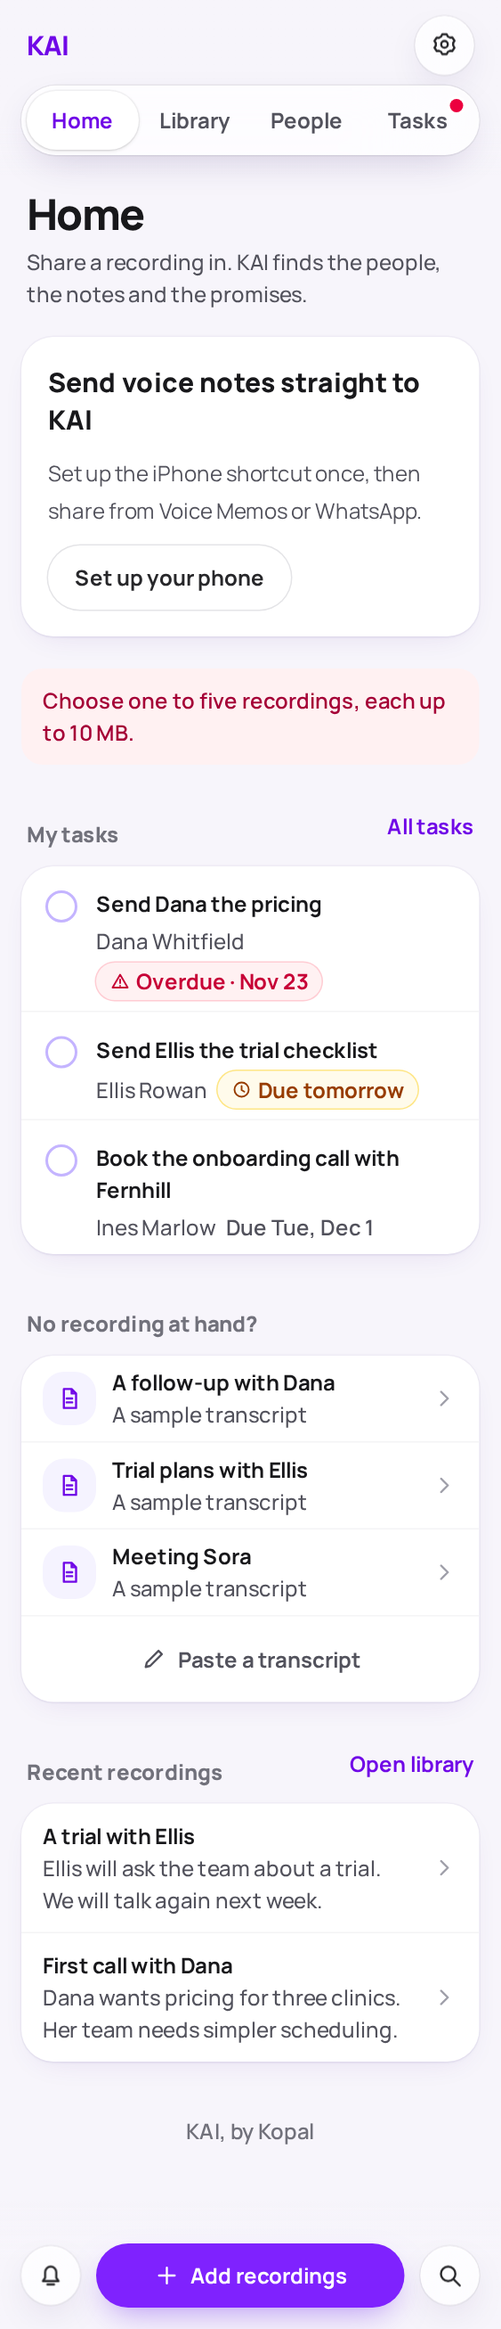
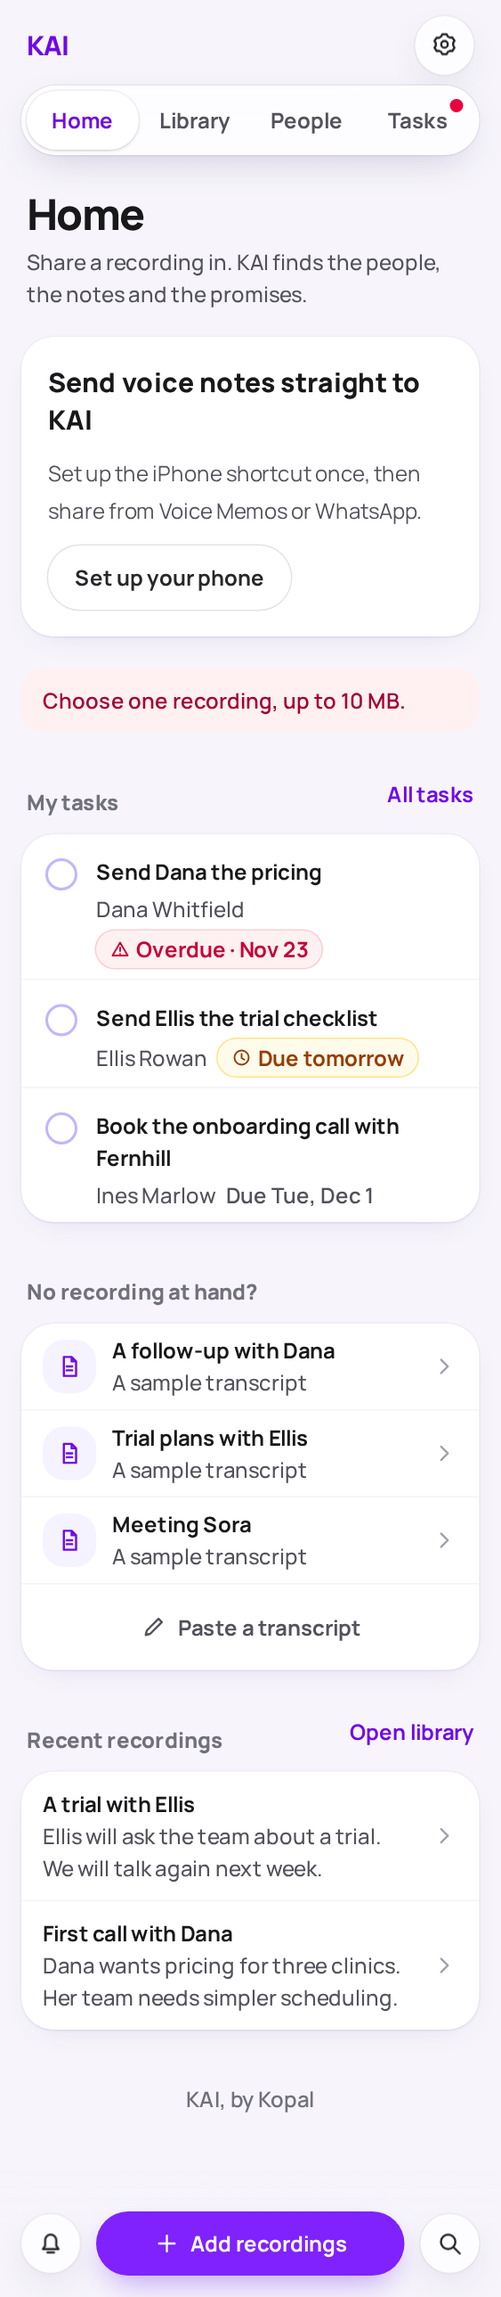
Accept one recording per demo import

diff --git a/src/look/screens/Upload.tsx b/src/look/screens/Upload.tsx
@@ -8,7 +8,7 @@ const sources:{id:UploadSource;label:string;icon:IconName}[]=[{id:'voice-memos',
 const guides:Record<UploadSource,string[]>={
  'voice-memos':['Open Voice Memos from your Home Screen and choose a recording.','Tap More (…), then Share. If Options appears, choose Rendered audio.','Choose Send to KAI. Your browser opens so you can choose the recording type.'],
  whatsapp:['Hold the voice note in WhatsApp, then tap Forward.','Tap Share, then Send to KAI.','Your browser opens so you can choose who sent it before KAI reads.'],
- files:['Save a recording to Files from the app’s Share menu.','Choose the person below, then choose up to five audio files.','KAI checks their length against your remaining time before starting.']
+ files:['Save a recording to Files from the app’s Share menu.','Choose the recording type below, then choose one audio file.','KAI checks its length against your remaining time before starting.']
 }
 const timeLeft=(seconds:number)=>`${Math.floor(seconds/60)} min ${seconds%60} sec`
 
@@ -39,7 +39,7 @@ export function Upload({ people, incoming, readOnly, presetPerson, busy, error, 
   const [name,setName]=useState(''),[company,setCompany]=useState(''),[role,setRole]=useState('')
   const person:PersonChoice=recordingType!=='voice' ? {recording_type:recordingType,person_id:null}:selected==='new' ? {recording_type:recordingType,new_person:{id,name:name.trim(),company:company.trim(),role:role.trim()}} : {recording_type:recordingType,person_id:selected || null}
   const valid=Boolean(recordingType) && (recordingType!=='voice' || (selected==='new' ? Boolean(name.trim()):Boolean(selected)))
-  const dock=readOnly ? <WhatIsKai/> : loadError ? <Button variant="primary" wide onClick={onRetry}>Try again</Button> : !people ? <Button variant="primary" wide disabled>Opening…</Button> : exhausted ? <Button variant="primary" wide href={xPostUrl || '/home'}>{xPostUrl ? 'Show KAI some love':'Back to Home'}</Button> : incoming ? <Button variant="primary" wide disabled={busy || !valid} onClick={()=>onStart(person)}>{busy ? 'Starting…' : recordingType==='multiple' ? 'Transcribe recording':'Let KAI read'}</Button> : source!=='files' && !shortcutReady ? <Button variant="primary" wide href={'/connect?next='+source}>Set up shortcut</Button> : source==='whatsapp' ? <Button variant="primary" wide href="whatsapp://app">Open WhatsApp</Button> : source==='voice-memos' ? <Button variant="primary" wide onClick={()=>{setSource('files');setGuide(null)}}>Choose saved audio</Button> : <RecordingPicker label="Choose audio files" busy={busy} disabled={!valid} onFiles={files=>onFiles(files,person)}/>
+  const dock=readOnly ? <WhatIsKai/> : loadError ? <Button variant="primary" wide onClick={onRetry}>Try again</Button> : !people ? <Button variant="primary" wide disabled>Opening…</Button> : exhausted ? <Button variant="primary" wide href={xPostUrl || '/home'}>{xPostUrl ? 'Show KAI some love':'Back to Home'}</Button> : incoming ? <Button variant="primary" wide disabled={busy || !valid} onClick={()=>onStart(person)}>{busy ? 'Starting…' : recordingType==='multiple' ? 'Transcribe recording':'Let KAI read'}</Button> : source!=='files' && !shortcutReady ? <Button variant="primary" wide href={'/connect?next='+source}>Set up shortcut</Button> : source==='whatsapp' ? <Button variant="primary" wide href="whatsapp://app">Open WhatsApp</Button> : source==='voice-memos' ? <Button variant="primary" wide onClick={()=>{setSource('files');setGuide(null)}}>Choose saved audio</Button> : <RecordingPicker label="Choose audio file" busy={busy} disabled={!valid} onFiles={files=>onFiles(files,person)}/>
   return <PushedPage back="/home" backLabel="Back to Home" readOnly={readOnly} dock={dock}>
     <header className="px-1"><h1 className="text-[30px]/9 font-extrabold tracking-tight">Add recordings</h1><p className="mt-2 text-base/7 font-medium text-zinc-600">{incoming ? 'Tell KAI whose words these are.':'Where is your recording?'}</p></header>
     {readOnly ? <Card className="p-5 text-base/7 font-medium text-zinc-600">Open your own copy to add recordings.</Card> : loadError ? <Notice tone="error">{loadError}</Notice> : !people ? <Notice>Opening your upload…</Notice> : exhausted ? <Card className="space-y-3 p-5"><h2 className="text-xl font-extrabold">Your trial time is complete</h2><p className="text-base/7 text-zinc-600">You’ve used your recording time. Your people, tasks and past recordings are still here.</p></Card> : <>
@@ -67,7 +67,7 @@ export function Upload({ people, incoming, readOnly, presetPerson, busy, error, 
         <p className="text-base/7 font-medium text-zinc-600">This person is the speaker, not just someone mentioned. KAI will distinguish their tasks from yours.</p>
       </Card>}
       {!incoming && remainingSeconds!=null && <p className="px-1 text-base/7 font-bold text-violet-700">{timeLeft(remainingSeconds)} of recording time left</p>}
-      {!incoming && <p className="px-1 text-base/7 font-medium text-zinc-600">Up to five recordings at once, each up to 10 MB and under 30 minutes. {source==='files' ? 'The recording type applies to all selected files.':'Choose the recording type after sharing.'} {remainingSeconds!=null && 'Together, the files must fit your remaining time.'}</p>}
+      {!incoming && <p className="px-1 text-base/7 font-medium text-zinc-600">One recording at a time, up to 10 MB and under 30 minutes. {source!=='files' && 'Choose the recording type after sharing.'} {remainingSeconds!=null && 'The recording must fit your remaining time.'}</p>}
       {error && <Notice tone="error">{error}</Notice>}
     </>}
     {!readOnly && <p className="px-1 text-base/7 text-zinc-500">{RECORDING_NOTICE}</p>}

diff --git a/tests/audio.test.ts b/tests/audio.test.ts
@@ -18,10 +18,10 @@ function setup(durable=false) {
 }
 const reader:Reader=async(_input,call)=>{call('describe_recording',{title:'A test recording',summary:'KAI kept the invented words.\nThere are no new promises.'});};
 const dates=[Date.UTC(2026,10,24),Date.UTC(2026,10,22),Date.UTC(2026,10,23)];
-test('three files are read oldest first and audio is deleted afterwards',async()=> {
+test('separate imports are read oldest first and audio is deleted afterwards',async()=> {
   const {db,directory}=setup();const order:string[]=[];
   try {
-    const ids=await addAudio(db,'judge-a',dates.map(date=>({name:'memo.wav',buffer:testTone(),date})),directory);
+    const ids:string[]=[];for(const date of dates)ids.push(...await addAudio(db,'judge-a',[{name:'memo.wav',buffer:testTone(),date}],directory));
     const paths=(db.prepare('SELECT audio_path FROM conversations WHERE audio_path IS NOT NULL').all() as {audio_path:string}[]).map(r=>r.audio_path);
     const worker=queueWorker(db,async(input,call)=>{order.push(input.happened_on);await reader(input,call);},fakeTranscriber);
     await worker.kick();
@@ -30,11 +30,12 @@ test('three files are read oldest first and audio is deleted afterwards',async()
     await worker.stop();
   } finally {db.close();rmSync(directory,{recursive:true,force:true});}
 });
-test('queue stopped halfway finishes after reopening its persistent database',async()=> {
+test('an existing batch stopped halfway finishes after reopening its persistent database',async()=> {
   const {db,directory,file}=setup(true);let resumed:ReturnType<typeof openDatabase>|undefined;
   let started!:()=>void;const secondStarted=new Promise<void>(resolve=>started=resolve);let calls=0;
   try {
-    await addAudio(db,'judge-a',dates.map(date=>({name:'memo.wav',buffer:testTone(),date})),directory);
+    for(const date of dates)await addAudio(db,'judge-a',[{name:'memo.wav',buffer:testTone(),date}],directory);
+    db.prepare("UPDATE conversations SET batch_id='legacy-batch' WHERE workspace_id='judge-a'").run();
     const worker=queueWorker(db,reader,async(_audio,signal)=> {
       if(++calls===1) return 'First invented memo.';
       started();await new Promise<void>((_resolve,reject)=>signal.addEventListener('abort',()=>reject(new Error('Stopped')),{once:true}));return '';
@@ -59,14 +60,14 @@ test('real generated m4a and opus files are accepted; 30-minute audio is refused
     await assert.rejects(()=>addAudio(db,'judge-a',[{name:'long.wav',buffer:long,date:dates[0]}],directory),/shorter than 30 minutes/);
   } finally {db.close();rmSync(directory,{recursive:true,force:true});}
 });
-test('11 MB and sixth file are refused by HTTP before anything is queued',async()=> {
+test('11 MB and second file are refused by HTTP before anything is queued',async()=> {
   const {db,directory}=setup();const secret=randomBytes(32).toString('hex');
   const app=createApp(db,{judgeSecret:secret,audioDirectory:directory});const server=app.listen(18522,'127.0.0.1');
   await new Promise<void>(resolve=>server.once('listening',resolve));const base='http://127.0.0.1:18522';
   try {
     const auth=await fetch(base+'/api/access/start',{method:'POST',headers:{'Content-Type':'application/json'},body:JSON.stringify({secret})});
     const cookie=auth.headers.get('set-cookie')!.split(';')[0];
-    for(const buffers of [[Buffer.alloc(11_000_000)],Array.from({length:6},()=>testTone())]) {
+    for(const buffers of [[Buffer.alloc(11_000_000)],Array.from({length:2},()=>testTone())]) {
       const form=new FormData();buffers.forEach(b=>form.append('recordings',new Blob([new Uint8Array(b)]),'memo.wav'));form.append('dates',JSON.stringify(buffers.map(()=>dates[0])));
       const response=await fetch(base+'/api/recordings',{method:'POST',headers:{Cookie:cookie},body:form});assert.equal(response.status,400);
     }

diff --git a/src/look/screens/Terms.tsx b/src/look/screens/Terms.tsx
@@ -6,7 +6,7 @@ export function Terms({fromHome=false}:{fromHome?:boolean}) {
  return <PushedPage back={back} backLabel={label} dock={<Button variant="primary" href={back}>{label}</Button>}>
   <header className="px-1"><h1 className="text-[32px]/10 font-extrabold">Demo terms and privacy</h1><p className="mt-2 text-base/7 text-zinc-600">KAI, by Kopal · 26 November 2026</p></header>
   <Card className="space-y-5 p-5 text-base/7 text-zinc-700">
-   <section><h2 className="text-lg font-extrabold text-zinc-900">A temporary, free demo</h2><p>One verified email and public network address can claim 30 minutes of recording time, for the first 100 people. People sharing a network share an allowance. There is no payment or automatic renewal. Each file is under 30 minutes and at most 10 MB, with up to five files per upload and ten recordings a day. Shared daily limits can mean trying again tomorrow.</p></section>
+   <section><h2 className="text-lg font-extrabold text-zinc-900">A temporary, free demo</h2><p>One verified email and public network address can claim 30 minutes of recording time, for the first 100 people. People sharing a network share an allowance. There is no payment or automatic renewal. Each file is under 30 minutes and at most 10 MB, with one file per upload and ten recordings a day. Shared daily limits can mean trying again tomorrow.</p></section>
    <section><h2 className="text-lg font-extrabold text-zinc-900">What you share</h2><p>Only add recordings you have permission to share and process, including permission from other speakers where needed. Use made-up examples to try the demo. KAI can make mistakes: review its suggestions before accepting or relying on them. KAI does not send messages to your contacts or carry out tasks for you.</p></section>
    <section><h2 className="text-lg font-extrabold text-zinc-900">Your recordings and notebook</h2><p>{RECORDING_NOTICE}</p><p className="mt-2">KAI runs on Fly.io. Audio is deleted from KAI after transcription; the words, summaries and accepted changes stay in your private notebook until 8 December 2026. Providers process the material sent to them under their own policies; this deletion date describes KAI’s copy. Keep your original recordings.</p><p className="mt-2">Access is kept in this browser with a cookie. Verifying your email again does not recover access or refill your allowance. Keep your private sharing and assistant addresses private: they grant access to their respective features.</p></section>
    <section><h2 className="text-lg font-extrabold text-zinc-900">Your email and trial records</h2><p>Resend delivers verification codes and recording-ready, retry or over-quota upload emails. Ready emails include the recording title, suggestion counts and a review link. Your email is linked to your trial and waitlist signup. Kopal may write once if KAI becomes a product; the waitlist can be retained for that message unless you ask to leave it. Your address is not sent to the recording providers or exposed to connected assistants.</p><p className="mt-2">KAI keeps a protected fingerprint of your public network address to prevent repeat trials, plus the version and time of your agreement. Existing trial and daily limits remain in force.</p></section>

diff --git a/tests/single-import.test.ts b/tests/single-import.test.ts
@@ -1,0 +1,33 @@
+import {test} from 'node:test';
+import assert from 'node:assert/strict';
+import {mkdtempSync,readdirSync,rmSync} from 'node:fs';
+import {openDatabase,seed} from '../src/server/db';
+import {createJudge} from '../src/server/access';
+import {createApp} from '../src/server/app';
+import {testTone} from '../src/server/gateway';
+
+test('both import routes reject two files without writes, quota, provider or mail calls; one still works',async()=>{
+ const db=openDatabase();seed(db);const j=createJudge(db,false),dir=mkdtempSync('.data/single-import-');let listens=0,mails=0;
+ db.prepare('UPDATE workspaces SET trial_seconds=1800,trial_verified=1 WHERE id=?').run(j.id);
+ db.prepare('INSERT INTO waitlist(email,workspace_id,created_at,verified_at) VALUES (?,?,?,?)').run('invented@example.invalid',j.id,'2026-11-26','2026-11-26');
+ const app=createApp(db,{secureCookies:false,audioDirectory:dir,transcriber:async()=>{listens++;return 'Invented words.'},reader:async(_input,call)=>{call('describe_recording',{title:'Invented memo',summary:'A made-up update.\nNo promises.'})},sendReady:async()=>{mails++},sendQuota:async()=>{mails++}});
+ const server=app.listen(18635,'127.0.0.1');await new Promise<void>(r=>server.once('listening',r));const base='http://127.0.0.1:18635',headers={Cookie:'kai_session='+j.cookie};
+ const address=(db.prepare('SELECT upload_token FROM workspaces WHERE id=?').get(j.id) as {upload_token:string}).upload_token;
+ const counters=()=>db.prepare('SELECT trial_seconds,recordings_today,readings_today FROM workspaces WHERE id=?').get(j.id);
+ function form(count:number){const f=new FormData();for(let i=0;i<count;i++)f.append('recordings',new Blob([testTone()]),'invented.wav');f.append('dates',JSON.stringify(Array(count).fill(Date.now())));f.append('person',JSON.stringify({recording_type:'memo'}));return f}
+ try{
+  const before=counters();
+  for(const route of ['/api/recordings','/in/'+address]){
+   const r=await fetch(base+route,{method:'POST',headers,body:form(2)});assert.equal(r.status,400);assert.match((await r.json()).error,/one recording/i);
+  }
+  await app.locals.queue.kick();assert.deepEqual(counters(),before);assert.deepEqual(readdirSync(dir),[]);
+  for(const table of ['conversations','people','recording_emails','quota_emails'])assert.equal((db.prepare(`SELECT count(*) n FROM ${table} WHERE workspace_id=?`).get(j.id) as {n:number}).n,0);
+  assert.equal(listens,0);assert.equal(mails,0);
+  for(const route of ['/api/recordings','/in/'+address]){
+   const r=await fetch(base+route,{method:'POST',headers,body:form(1)});assert.equal(r.status,202);const {ids}=await r.json();assert.equal(ids.length,1);
+   if(route.startsWith('/in/'))assert.equal((await fetch(base+'/api/uploads/'+ids[0]+'/start',{method:'POST',headers:{...headers,'Content-Type':'application/json'},body:JSON.stringify({recording_type:'memo'})})).status,200);
+   await app.locals.queue.kick();
+  }
+  assert.equal(listens,2);assert.equal((db.prepare("SELECT count(*) n FROM conversations WHERE workspace_id=? AND status='ready'").get(j.id) as {n:number}).n,2);
+ }finally{await app.locals.queue.stop();await new Promise<void>(r=>server.close(()=>r()));db.close();rmSync(dir,{recursive:true,force:true})}
+});

diff --git a/tests/phone/upload-person.spec.ts b/tests/phone/upload-person.spec.ts
@@ -12,7 +12,7 @@ test('choose a new person before upload; their page keeps the recording after re
   await login(page,kai.secret);await page.getByRole('link',{name:'Add recordings',exact:true}).click();
   await page.getByRole('button',{name:/^Someone else/}).click();await page.getByLabel('Who is speaking?').selectOption('new');await assertPhone(page);
   await page.getByLabel('Name',{exact:true}).fill('Avery Fern');await page.getByLabel('Company (optional)').fill('Juniper Dental');await photograph(page,'upload-new-person');
-  await page.getByLabel('Add recordings: choose up to five audio files').setInputFiles({name:'invented.wav',mimeType:'audio/wav',buffer:testTone()});
+  await page.getByLabel('Add recording: choose one audio file').setInputFiles({name:'invented.wav',mimeType:'audio/wav',buffer:testTone()});
   await expect(page.getByRole('button',{name:/^Accept all/})).toBeEnabled();await page.getByRole('link',{name:'Avery Fern',exact:true}).click();
   await expect(page.getByRole('heading',{name:'Avery Fern',exact:true})).toBeVisible();
   await page.reload();await expect(page.getByRole('link',{name:/A follow-up with Dana/})).toBeVisible();await assertPhone(page);
@@ -43,7 +43,7 @@ test('Home puts recording progress first, then my tasks, excluding promises owed
   await page.goto('/home');await expect(page.getByText('Reading Dana’s page',{exact:true})).toBeVisible();
   const tasks=page.getByRole('region',{name:'My tasks',exact:true});await expect(tasks).toContainText('Send Dana the pricing');await expect(tasks).not.toContainText('Send the trial dates');
   const progress=await page.getByText('Reading Dana’s page',{exact:true}).boundingBox(),todos=await tasks.boundingBox(),samples=await page.getByText('No recording at hand?',{exact:true}).boundingBox();
-  expect(progress!.y).toBeLessThan(todos!.y);expect(todos!.y).toBeLessThan(samples!.y);await expect(page.getByText('Up to five recordings at once',{exact:true})).toHaveCount(0);await assertPhone(page);
+  expect(progress!.y).toBeLessThan(todos!.y);expect(todos!.y).toBeLessThan(samples!.y);await expect(page.getByText('One recording at a time',{exact:true})).toHaveCount(0);await assertPhone(page);
   await page.getByRole('checkbox',{name:'Mark Send Dana the pricing done'}).click();await expect(tasks).not.toContainText('Send Dana the pricing');
   await page.reload();await expect(page.getByRole('region',{name:'My tasks'})).not.toContainText('Send Dana the pricing');
 });

diff --git a/tests/trial.test.ts b/tests/trial.test.ts
@@ -14,9 +14,9 @@ test('duration reservation is atomic across uploads, survives restart, and prese
  const file={name:'tone.wav',buffer:testTone(),date:Date.now()};
  const remaining=()=>(db.prepare('SELECT trial_seconds FROM workspaces WHERE id=?').get(judge.id) as {trial_seconds:number}).trial_seconds;
  try {
-  db.prepare('UPDATE workspaces SET trial_verified=1,trial_seconds=5 WHERE id=?').run(judge.id);
-  await assert.rejects(()=>addAudio(db,judge.id,[file,file,file],dir),/remaining recording time/);assert.equal(remaining(),5);
-  const results=await Promise.allSettled([addAudio(db,judge.id,[file,file],dir),addAudio(db,judge.id,[file,file],dir,'shared',{awaitingPerson:true})]);
+  db.prepare('UPDATE workspaces SET trial_verified=1,trial_seconds=3 WHERE id=?').run(judge.id);
+  await assert.rejects(()=>addAudio(db,judge.id,[file,file],dir),/one recording/);assert.equal(remaining(),3);
+  const results=await Promise.allSettled([addAudio(db,judge.id,[file],dir),addAudio(db,judge.id,[file],dir,'shared',{awaitingPerson:true})]);
   assert.equal(results.filter(r=>r.status==='fulfilled').length,1);assert.equal(remaining(),1);
   const image=db.serialize();db.close();db=openDatabase(image);assert.equal(remaining(),1);
   await assert.rejects(()=>addAudio(db,judge.id,[file],dir,'shared',{awaitingPerson:true}),/remaining recording time/);
@@ -64,7 +64,7 @@ test('forged audio headers cannot request more provider time than reserved; over
   worker=queueWorker(db,reader,assemblyTranscriber);await worker.kick();await worker.stop();
   assert.equal(requested,1);assert.equal((db.prepare('SELECT status FROM conversations WHERE id=?').get(id) as {status:string}).status,'ready');
   providerDuration=2;
-  await addAudio(db,judge.id,[{name:'forged.wav',buffer:forged,date:Date.now()},{name:'forged.wav',buffer:forged,date:Date.now()}],dir);
+  for(let i=0;i<2;i++)await addAudio(db,judge.id,[{name:'forged.wav',buffer:forged,date:Date.now()}],dir);
   worker=queueWorker(db,reader,assemblyTranscriber);await worker.kick();await worker.stop();
   assert.equal(requested,2);assert.throws(()=>reserveReading(db,judge.id),/trial has ended/);
   const reopened=openDatabase(db.serialize());assert.throws(()=>reserveReading(reopened,judge.id),/trial has ended/);reopened.close();

diff --git a/tests/upload-person.test.ts b/tests/upload-person.test.ts
@@ -48,9 +48,9 @@ test('a shared recording waits for its owner, survives reopening, and starts onc
   }finally{await app.locals.queue.stop();await new Promise<void>(r=>server.close(()=>r()));db.close();rmSync(dir,{recursive:true,force:true});}
 });
 
-test('file uploads link the whole batch atomically; foreign people and invalid choices leave no files, rows or spent allowance',async()=> {
+test('single imports link a person atomically; foreign people and invalid choices leave no files, rows or spent allowance',async()=> {
   mkdirSync('.data',{recursive:true});const dir=mkdtempSync('.data/person-batch-');const db=openDatabase();seed(db);const a=createJudge(db),b=createJudge(db);
-  const files=[0,1,2].map(i=>({name:'invented.wav',buffer:testTone(),date:Date.now()-5000+i}));
+  const files=[0].map(i=>({name:'invented.wav',buffer:testTone(),date:Date.now()-5000+i}));
   const before=db.prepare('SELECT recordings_today,readings_today FROM workspaces WHERE id=?').get(a.id);
   try {
     await assert.rejects(addAudio(db,a.id,files,dir,'recording',{person:{person_id:b.id+':dana'}}));
@@ -58,9 +58,9 @@ test('file uploads link the whole batch atomically; foreign people and invalid c
     assert.equal((db.prepare("SELECT count(*) AS n FROM conversations WHERE source='recording'").get() as {n:number}).n,0);
     const person={id:randomUUID(),name:'Linden Ash',company:'',role:''};
     const ids=await addAudio(db,a.id,files,dir,'recording',{person:{new_person:person}});
-    assert.equal(ids.length,3);assert.equal((db.prepare('SELECT count(*) AS n FROM people WHERE id=?').get(person.id) as {n:number}).n,1);
+    assert.equal(ids.length,1);assert.equal((db.prepare('SELECT count(*) AS n FROM people WHERE id=?').get(person.id) as {n:number}).n,1);
     for(const id of ids)assert.equal((db.prepare('SELECT person_id FROM conversations WHERE id=?').get(id) as {person_id:string}).person_id,person.id);
-    assert.equal((personPage(db,a.id,person.id)!.conversations as unknown[]).length,3);
+    assert.equal((personPage(db,a.id,person.id)!.conversations as unknown[]).length,1);
     assert.equal((db.prepare('SELECT count(*) AS n FROM suggestions WHERE workspace_id=?').get(a.id) as {n:number}).n,0);
   }finally{db.close();rmSync(dir,{recursive:true,force:true});}
 });

diff --git a/tests/phone/upload-sources.spec.ts b/tests/phone/upload-sources.spec.ts
@@ -22,7 +22,7 @@ test('three audio sources show guidance and return from shortcut setup to the ch
  await page.getByRole('button',{name:'Choose saved audio',exact:true}).click();
  await expect(page.getByRole('heading',{name:'What kind of recording?'})).toBeVisible();await page.getByRole('button',{name:/^My memo/}).click();
  await page.getByRole('button',{name:'Files',exact:true}).click();
- const picker=page.getByLabel('Add recordings: choose up to five audio files');await expect(picker).toHaveAttribute('accept','.m4a,.opus,.ogg,.mp3,.wav');
+ const picker=page.getByLabel('Add recording: choose one audio file');await expect(picker).not.toHaveAttribute('multiple');await expect(picker).toHaveAttribute('accept','.m4a,.opus,.ogg,.mp3,.wav');
  await picker.setInputFiles({name:'invented.txt',mimeType:'text/plain',buffer:Buffer.from('Invented words.')});
  await expect(page.getByText('Choose an audio file: M4A, OPUS, OGG, MP3 or WAV.',{exact:true})).toBeVisible();await expect(page).toHaveURL(/upload\/new/);
  await assertPhone(page);
@@ -35,7 +35,7 @@ test('remaining time refuses an oversized duration, hides a missing post, and le
  kai.db.prepare('UPDATE workspaces SET trial_verified=1,trial_seconds=1 WHERE id=?').run(id);
  await page.goto('/upload/new');await expect(page.getByText('0 min 1 sec of recording time left',{exact:true})).toBeVisible();
  await page.getByRole('button',{name:/^My memo/}).click();
- await page.getByLabel('Add recordings: choose up to five audio files').setInputFiles({name:'invented.wav',mimeType:'audio/wav',buffer:testTone()});
+ await page.getByLabel('Add recording: choose one audio file').setInputFiles({name:'invented.wav',mimeType:'audio/wav',buffer:testTone()});
  await expect(page.getByText(/remaining recording time/)).toBeVisible();
  expect((kai.db.prepare('SELECT trial_seconds FROM workspaces WHERE id=?').get(id) as {trial_seconds:number}).trial_seconds).toBe(1);
  kai.db.prepare('UPDATE workspaces SET trial_seconds=2 WHERE id=?').run(id);

diff --git a/src/server/app.ts b/src/server/app.ts
@@ -27,7 +27,7 @@ export function createApp(db: KaiDatabase, options: AppOptions = {}) {
   const queue=queueWorker(db,options.reader ?? fakeReader,options.transcriber ?? fakeTranscriber,()=>{void mail.kick();});
   const work=()=>{void quotaMail.kick();void mail.kick();return queue.kick();};
   app.locals.queue={kick:work,stop:async()=>{await queue.stop();await mail.stop();await quotaMail.stop();}};void work();
-  const upload=multer({storage:multer.memoryStorage(),limits:{fileSize:maxAudioBytes,files:5,fields:2,fieldSize:2048,parts:7}}).array('recordings',5);
+  const upload=multer({storage:multer.memoryStorage(),limits:{fileSize:maxAudioBytes,files:1,fields:2,fieldSize:2048,parts:3}}).array('recordings',1);
   app.disable('x-powered-by');
   app.use((_req,res,next) => {res.set({'Referrer-Policy':'no-referrer','Cache-Control':'no-store','X-Content-Type-Options':'nosniff'});next();});
   mountSharing(app,db,upload,options.audioDirectory ?? '.data/audio',work);
@@ -176,7 +176,7 @@ export function createApp(db: KaiDatabase, options: AppOptions = {}) {
   app.use(express.static(path.resolve('dist')));
   app.get(['/', '/terms', '/try', '/home', '/search', '/library', '/notifications', '/upload', '/upload/:id', '/people', '/todos', '/todos/:id', '/connect', '/recordings/:id', '/people/:id', '/operator'], (_req,res) => res.sendFile('index.html', {root:path.resolve('dist')}));
   app.use((err: unknown,_req:express.Request,res:express.Response,_next:express.NextFunction) => {
-    if(err instanceof multer.MulterError) {res.status(400).json({error:'Choose up to five recordings, each up to 10 MB.'});return;}
+    if(err instanceof multer.MulterError) {res.status(400).json({error:'Choose one recording, up to 10 MB.'});return;}
     res.status(err && typeof err==='object' && 'status' in err && err.status===413 ? 413:err instanceof SyntaxError ? 400 : 500).json({error:'This request could not be completed.'});
   });
   return app;

diff --git a/tests/sharing.test.ts b/tests/sharing.test.ts
@@ -55,13 +55,13 @@ test('sharing enters only its address owner’s queue; wrong addresses are 404 a
   }finally{await close();}
 });
 
-test('shared uploads retain file, duration, batch and daily limits without queuing rejected input',async()=> {
+test('shared uploads retain file, duration, single-file and daily limits without queuing rejected input',async()=> {
   const {db,base,judge,close}=await setup();try {
     const a=await judge();const post=(form:FormData)=>fetch(base+a.uploadPath,{method:'POST',body:form});
     const long=Buffer.alloc(44+1800*800*2);testTone().copy(long);long.writeUInt32LE(long.length-8,4);long.writeUInt32LE(long.length-44,40);long.writeUInt32LE(800,24);long.writeUInt32LE(1600,28);
-    for(const form of [audioForm([Buffer.alloc(11_000_000)]),audioForm(Array.from({length:6},()=>testTone())),audioForm([long]),audioForm([testTone()],'2026-02-30T12:00:00Z'),new FormData()])assert.equal((await post(form)).status,400);
+    for(const form of [audioForm([Buffer.alloc(11_000_000)]),audioForm(Array.from({length:2},()=>testTone())),audioForm([long]),audioForm([testTone()],'2026-02-30T12:00:00Z'),new FormData()])assert.equal((await post(form)).status,400);
     assert.equal((db.prepare("SELECT count(*) AS n FROM conversations WHERE source='shared'").get() as {n:number}).n,0);
-    for(let i=0;i<2;i++)assert.equal((await post(audioForm(Array.from({length:5},()=>testTone())))).status,202);
+    for(let i=0;i<10;i++)assert.equal((await post(audioForm())).status,202);
     assert.equal((await post(audioForm())).status,429);
     const b=await judge(),today=new Date().toISOString().slice(0,10);
     db.prepare('UPDATE workspaces SET recording_day=?,recordings_today=50 WHERE id=?').run(today,b.id);

diff --git a/design/gallery.tsx b/design/gallery.tsx
@@ -180,7 +180,7 @@ const STATES: Record<string, { title: string; screen: () => ReactNode }> = {
   'welcome/failed': { title: 'Welcome · a link that does not open', screen: () => <Welcome access={{ kind: 'public', videoUrl: null }} failed /> },
   'home/loading': { title: 'Home · loading', screen: () => <Home {...homeProps} home={null} readOnly={false} /> },
   'home/failed': { title: 'Home · could not load', screen: () => <Home {...homeProps} home={null} readOnly={false} loadError="Your notebook could not load. Reload this page to try again." /> },
-  'home/upload-failed': { title: 'Home · upload refused', screen: () => <Home {...homeProps} readOnly={false} addError="Choose one to five recordings, each up to 10 MB." /> },
+  'home/upload-failed': { title: 'Home · upload refused', screen: () => <Home {...homeProps} readOnly={false} addError="Choose one recording, up to 10 MB." /> },
   'home/paste-failed': { title: 'Home · reading refused', screen: () => <Home {...homeProps} readOnly={false} pasteOpen pasteError="KAI could not start. Try again." /> },
   'people/loading': { title: 'People · loading', screen: () => <People people={null} readOnly={false} onFiles={nothing} /> },
   'people/failed': { title: 'People · could not load', screen: () => <People people={null} readOnly={false} error="People could not load. Reload this page to try again." onFiles={nothing} /> },

diff --git a/tests/phone/recording-types.spec.ts b/tests/phone/recording-types.spec.ts
@@ -4,7 +4,7 @@ import {testTone} from '../../src/server/gateway';
 test('recording type makes speaker timing explicit; meetings wait for speaker names before suggestions',async({page,kai})=>{
  await page.goto('/');await page.evaluate(s=>{history.replaceState(null,'','/#judge='+s);location.reload()},kai.secret);
  await page.getByRole('link',{name:'Try it yourself',exact:true}).click();await page.goto('/upload/new');
- const picker=page.getByLabel('Add recordings: choose up to five audio files');await expect(picker).toBeDisabled();
+ const picker=page.getByLabel('Add recording: choose one audio file');await expect(picker).toBeDisabled();
  await page.getByRole('button',{name:/^My memo/}).click();await expect(picker).toBeEnabled();await expect(page.getByLabel('Who is speaking?',{exact:true})).toHaveCount(0);await assertPhone(page);
  await page.getByRole('button',{name:/^Someone else/}).click();await expect(picker).toBeDisabled();await expect(page.getByLabel('Who is speaking?',{exact:true})).toBeVisible();
  await page.getByLabel('Who is speaking?',{exact:true}).selectOption('new');await page.getByLabel('Name',{exact:true}).fill('Avery Fern');await expect(picker).toBeEnabled();await assertPhone(page);
